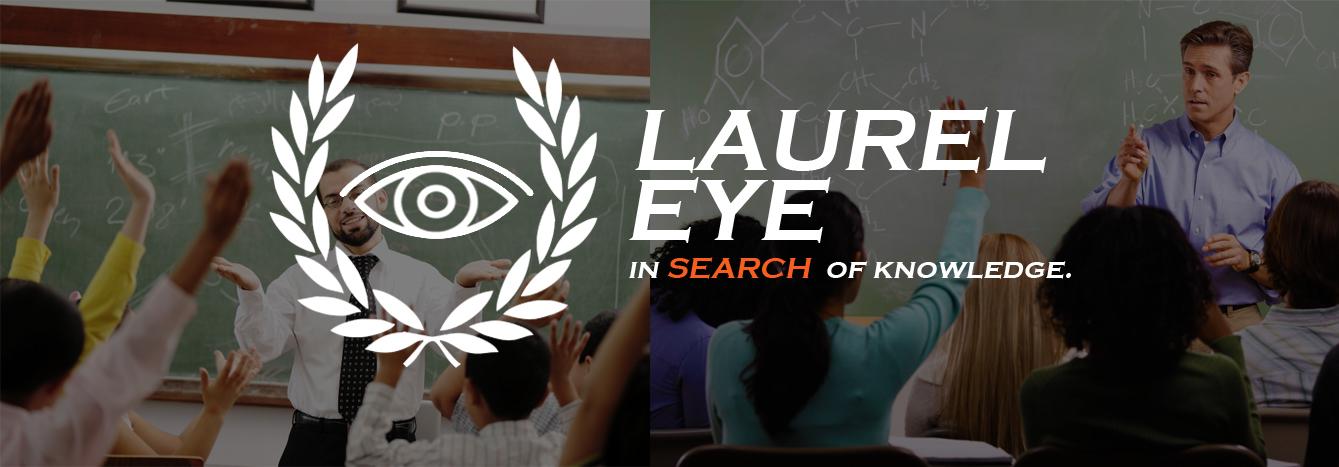
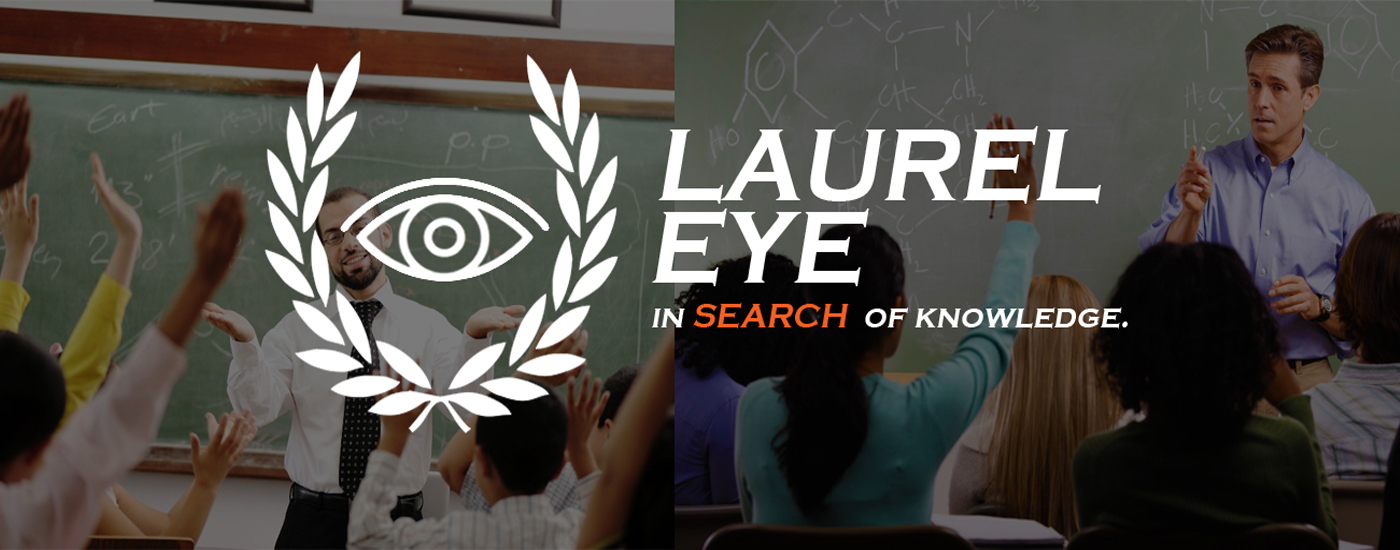
f

diff --git a/Project LaurelEye/home.html b/Project LaurelEye/home.html
@@ -18,25 +18,20 @@
 		}
 		.bg-1 { 
 			background-image: url("imgs/banner2.jpg");
-			background-size: 1339px 470px;
+			background-size: 1400px 550px;
 			color: #ffffff;
 		}
 		.bg-2 { 
-			background-color: #242729;
-			color: #9BA8B1;
+			background-color: #ffffff;
+			color: black;
 			padding-bottom : 0px;
+			padding-top : 0px !important;
+			 
 		}
 		.bg-3 {
 			background-color: #d28b3f;
 			color: white;
-		}
-		.bg-3 {
-			background-color: #d28b3f;
-			color: white;
-		}
-		.bg-3 {
-			background-color: #d28b3f;
-			color: white;
+			
 		}
 		.bg-4 {
 			background-color : #2429729;
@@ -50,6 +45,9 @@
 		.container-fluid {
 			padding-top: 70px;
 			padding-bottom: 70px;
+		}
+		.content{
+			color: black;
 		}
 
 </style>
@@ -94,7 +92,7 @@
 		<div id = "container banner">
 			<div>
 				<center>
-					<br><br><br><br><br><br>
+					<br><br><br><br><br><br><br><br><br><br><br>
 					<div class = "container col-md-6">
 						<!--Trigger/Open the Modal-->
 						<button type = "button" class = "btn btn-primary btn-block" id="myBtn">Seek</button>
@@ -103,6 +101,7 @@
 
 						<!-- Modal content -->
 							<div class="modal-content">
+								
 								<div class="modal-header">
 								<span class="close">×</span>
 								<h2>What subject to do you want to learn about?</h2>
@@ -141,50 +140,50 @@
 	<div class ="container-fluid bg-2">
 	<div class="container content">
 			
-			<h1 align = "center">LaurelEye helps you learn better</h1><br><br>
+			<h1 align = "center"><strong>LaurelEye helps you learn better</strong></h1><br><br>
 			<div class = "col-md-4 div2text">
-				<div><img src="img/rfather.png" height = "200px" width = "200px" ></div>
+				<div><img src="imgs/ic6.png" height = "200px" width = "200px" ></div>
 				<p class = "div2text">
-					<br>Learn <i>any</i> language<br>
-					Some content here.
+					<br><h3><strong>Learn <i>anything.</strong></i></h3><br>
+					Learn everything.
 				</p>
 			</div>
 			<div class = "col-md-4 div2text">
-				<div><img src="img/rmom.png" height = "200px" width = "200px" ></div>
+				<div><img src="imgs/ic5.png" height = "200px" width = "200px" ></div>
 				<p class = "div2text">
-					<br>Learn <i>any</i> language<br>
-					Some content here.
+					<br><h3><strong>Teachers love <i>laureleye.</strong></i></h3><br>
+					Tutors love this website!
 				</p>
 			</div>
 			<div class = "col-md-4 div2text">
-				<div><img src="img/rbro1.png" height = "200px" width = "200px" ></div>
+				<div><img src="imgs/ic4.png" height = "200px" width = "200px" ></div>
 				<p class = "div2text">
-					<br>Learn <i>any</i> language<br>
-					Some content here.
+					<br><h3><strong>Study with your <i>friends.</strong></i></h3><br>
+					Learn with your friends through group study.
 				</p>
 			</div>
 			<br>
 			<div class = "col-md-12"></div>
 			<div class = "col-md-12"></div>
 			<div class = "col-md-4 div2text">
-			<div><img src="img/rbro2.png" height = "200px" width = "200px" ></div>
+			<div><img src="imgs/ic3.png" height = "200px" width = "200px" ></div>
 				<p class = "div2text">
-					<br>Learn <i>any</i> language<br>
-					Some content here.
+					<br><h3><strong>Be <i>globally</i> competitive</strong></h3><br>
+					Learn from mentors around the world.
 				</p>
 			</div>
 			<div class = "col-md-4 div2text">
-			<div><img src="img/rbro3.png" height = "200px" width = "200px" ></div>
+			<div><img src="imgs/ic2.png" height = "200px" width = "200px" ></div>
 				<p class = "div2text">
-					<br>Learn <i>any</i> language<br>
-					Some content here.
+					<br><h3><strong>A lot of <i>learning</i></strong></h3><br>
+					Any subjects you wish.
 				</p>
 			</div>
 			<div class = "col-md-4 div2text">
-			<div><img src="img/rme.png" height = "200px" width = "200px" ></div>
+			<div><img src="imgs/ic1.png" height = "200px" width = "200px" ></div>
 				<p class = "div2text">
-					<br>Learn <i>any</i> language<br>
-					Some content here.
+					<br><h3><strong><i>iOS</i> and <i>Android</i></strong></h3><br>
+					Very convenient and mobile friendly.
 				</p>
 			</div>
 			</div>
